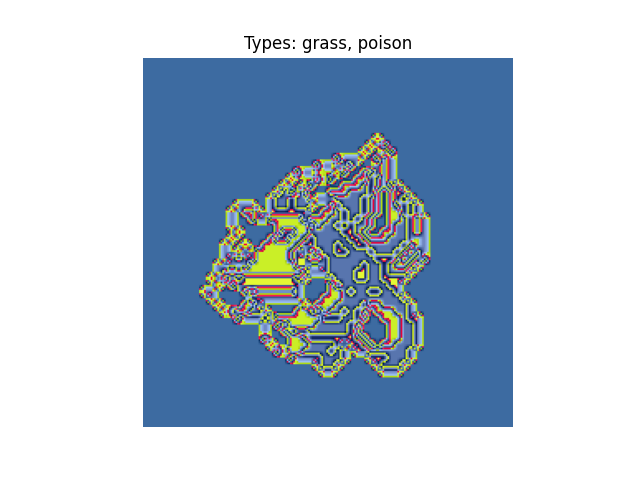
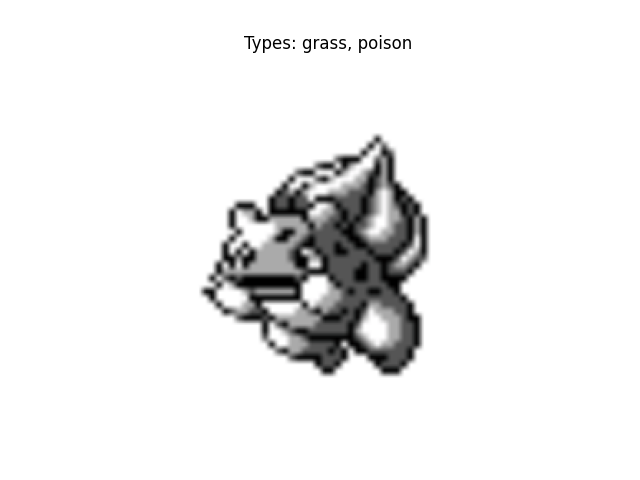
images works now, the scaled stats are just all 0 :(

diff --git a/data.py b/data.py
@@ -59,6 +59,11 @@ def image_preprocess():
     transforms.Normalize(mean=[0.485, 0.456, 0.406], std=[0.229, 0.224, 0.225])  # ImageNet req idk will we use that? otherwise change this
                          
 ])
+
+def image_unpreprocess(tensor):
+    mean = torch.tensor([0.485, 0.456, 0.406]).view(-1, 1, 1)
+    std = torch.tensor([0.229, 0.224, 0.225]).view(-1, 1, 1)
+    return tensor * std + mean
     
 def tab_preprocess(df):
     combined_df = df
@@ -97,6 +102,36 @@ def sample(df, idx, all_types, tfm):
 
     return image, tab, label
 
+
+def test(idx = 0):
+    data = get_data()
+    
+    for image, stats, label in data:
+        print(image.shape) 
+        print(stats.shape)  
+        print(label.shape)  
+        break
+
+    image, stats, label = data[idx]
+    types = deencode_types()
+    image = image_unpreprocess(image)
+    #test image, YES I LEARNED FROM MY MISTAKES
+    plt.imshow(F.to_pil_image(image))
+    plt.axis('off')
+    
+    plt.title(f"Types: {', '.join([t for i, t in enumerate(types) if label[i] == 1])}")
+    plt.savefig("test.png")
+
+    #test stat
+    print("Scaled stats (first 10):", np.round(stats[:10].numpy(), 3))
+
+"""
+Main call function
+returns data in form of (image_tensor, stats_tensor, label_tensor) list (for now)
+The types are kinda stupid, asked chatgpt how to do it, got like one hot vector thing but now you need deencode types to like get the types so maybe we need to change that or make an easier map
+
+"""
+
 #no idea what format do we want as output?
 def get_data():
     df = create_or_load_dataframe()
@@ -110,28 +145,7 @@ def get_data():
         image, stats, label = sample(df, idx, all_types, image_preprocess())
         data.append((image, stats, label))
 
-    return data  #(image_tensor, stats_tensor, label_tensor)
+    return data 
 
 
-def test(idx = 0):
-    data = get_data()
-    
-    for image, stats, label in data:
-        print(image.shape) 
-        print(stats.shape)  
-        print(label.shape)  
-        break
-
-    image, stats, label = data[idx]
-    types = deencode_types()
-    #test image, YES I LEARNED FROM MY MISTAKES
-    plt.imshow(F.to_pil_image(image))
-    plt.axis('off')
-    
-    plt.title(f"Types: {', '.join([t for i, t in enumerate(types) if label[i] == 1])}")
-    plt.savefig("test.png")
-
-    #test stat
-    print("stats:", stats[:10])
-    
 test()
